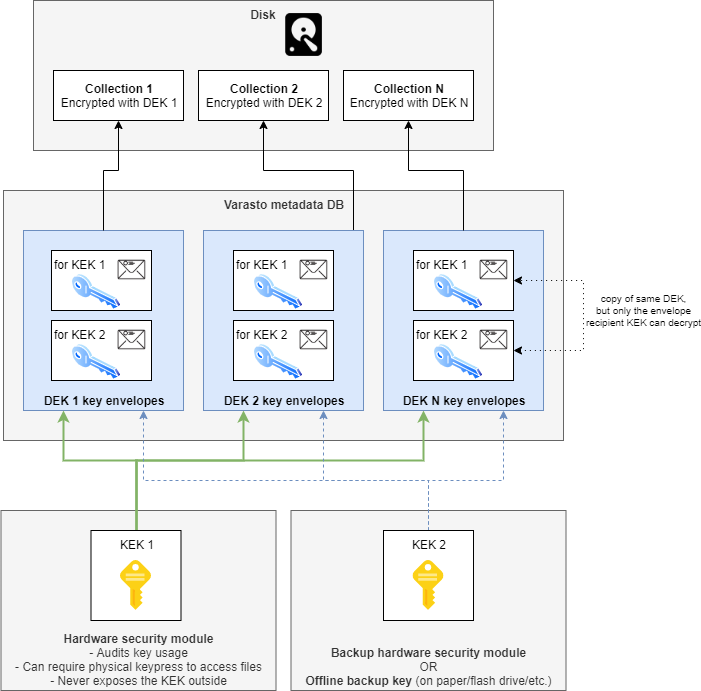
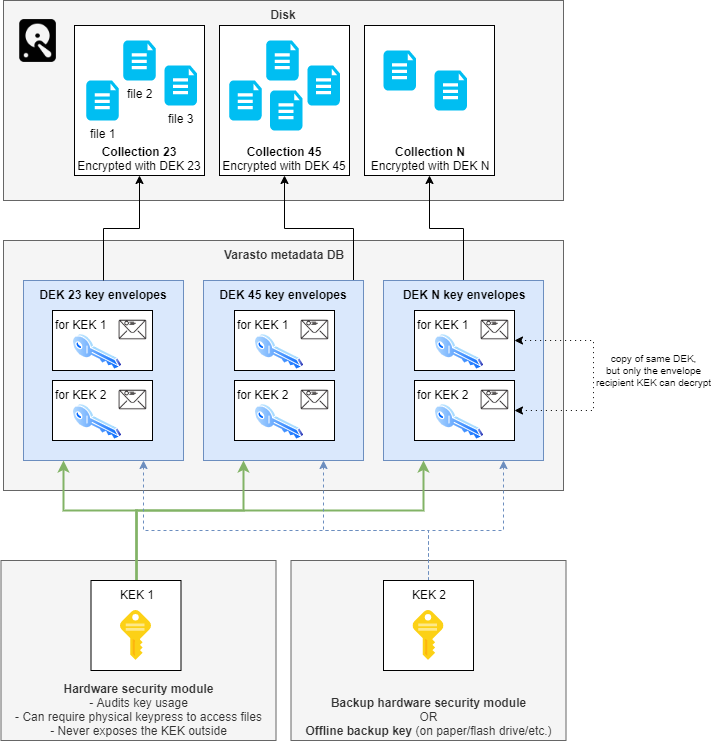
docs: encryption: improve docs

diff --git a/docs/security_encryption/README.md b/docs/security_encryption/README.md
@@ -9,8 +9,8 @@ Contents:
 - [HSM or not?](#hsm-or-not)
 - [Why do I need at least two KEKs?](#why-do-i-need-at-least-two-keks)
 - [Algorithms used](#algorithms-used)
-- [Limitations of Varasto's crypto design](#limitations-of-varasto-s-crypto-design)
-- [Varasto cryptosystem's description in minimal code](#varasto-cryptosystem-s-description-in-minimal-code)
+- [Limitations of Varasto's crypto design](#limitations-of-varastos-crypto-design)
+- [Varasto cryptosystem's description in minimal code](#varasto-cryptosystems-description-in-minimal-code)
 - [What if my HSM gets stolen?](#what-if-my-hsm-gets-stolen)
 
 
@@ -29,6 +29,8 @@ If you are interested in improving the security beyond baseline, read on!
 Glossary
 --------
 
+NOTE: Seeing the below diagram will make following this easier!
+
 | Term                           | Meaning |
 |--------------------------------|---------|
 | DEK (Data Encryption Key)      | Encryption key used to encrypt actual files |
@@ -44,20 +46,20 @@ on this, but we're not Google specific)
 Overview
 --------
 
+![Diagram](key-encryption-keys.png)
+
 Each collection in Varasto has a different DEK, so compromise of one collection does not
 compromise other collections. The DEKs are stored in Varasto's database.
 
-If an attacker steals Varasto's database or gets access to it, she could steal all DEKs to
-be able to decrypt **all your data**.
+If an attacker steals your encrypted files *and* Varasto's database or gets access to it,
+she could steal all DEKs to be able to decrypt **all your data**.
 
 To protect from this, we encrypt the DEKs with a KEK within a "key envelope" - one envelope
-for each of your KEK. This way the DEK can be decrypted by having any *one* of your KEKs.
+for each of your KEK. This way a given DEK can be decrypted by having any *one* of your KEKs.
 
 This way even if we have millions of collections with millions of DEKs, we can have all of
 them protected with about two "root" KEKs that can be stored in a high-security place with
 auditing and/or physical key press to grant access to just one collection at a time.
-
-![Diagram](key-encryption-keys.png)
 
 
 HSM or not?
@@ -69,17 +71,28 @@ can fiddle with your files without being asked to do anything.
 For more advanced users the private portion of KEKs can be stored in HSMs so that any data
 in Varasto can only be read by asking the HSM to decrypt the DEK.
 
-You can also mix-and-match by having for example a setup like this:
+You can also mix-and-match security levels by having in-Varasto KEK for your less
+private data and HSM-backed KEKs for your more private data.
 
-| KEK security | HSM | Auditing | Touch-to-decrypt | Convenience |
-|--------------|-----|----------|------------------|-------------|
-| Low          | ☐  | ☐       | ☐               | maximum     |
-| Medium       | ☑ | ☑      | ☐               | medium      |
-| High         | ☑ | ☑      | ☑              | minimum     |
+| Data security | KEK in HSM | Bulletproof auditing | Touch-to-decrypt | Convenience |
+|---------------|------------|----------------------|------------------|-------------|
+| Low           | ☐          | ☐                   | ☐               | maximum     |
+| Medium        | ☑         | ☑                  | ☐               | medium      |
+| High          | ☑         | ☑                  | ☑              | minimum     |
+
+Bulletproof auditing = if your HSM is on a dedicated server with almost nothing but the
+HSM and the auditing running, it'd be pretty hard for an attacker to bypass the auditing.
+
+You can even have touch-to-decrypt for your employees' machines by having a
+[YubiKey](https://www.yubico.com/) or similar generate a "I approve requesting the
+remote-stored KEK to grant me access to these files" -signature which will be relayed to
+the HSM service to authorize the DEK decryption.
 
 
 Why do I need at least two KEKs?
 --------------------------------
+
+### Why
 
 Remember, a KEK unlocks all your DEKs. If you only have one KEK and lose it:
 
@@ -87,16 +100,20 @@ Remember, a KEK unlocks all your DEKs. If you only have one KEK and lose it:
 - => you lose access to your files (since accessing the data requires the DEK)
 
 HSMs can break or be stolen, so you can lose a KEK. Therefore we recommend you to always
-have at least one backup KEK so you won't lose your files.
+have **at least** one backup KEK so you won't lose your files.
 
-You can unlock a DEK with any one of your KEKs.
+You can unlock a given DEK with any one of your KEKs.
+
+### Backup KEKs
 
 The backup KEK can be:
 
 - another HSM if you need high availability or want zero (or minimal) downtime if your primary HSM fails
 - or if you don't mind some downtime when a HSM fails, you can store your backup key offline on paper or inside a flash drive etc.
 
-You don't need to worry about backing up KEKs, because they're stored in Varasto's database
+### What about backing up DEKs?
+
+You don't need to worry about backing up DEKs, because they're stored in Varasto's database
 and that DB is covered by Varasto's DB backup mechanism.
 
 
@@ -124,9 +141,9 @@ already has the file that you have stored, they can compute the hash and see tha
 the same hash, i.e. know that you have the same file.
 
 This means Varasto is not great for you if you have data that also other people have and
-you want to have the ability to deny that you don't have the same data.
+you want to have the ability to deny those people that you have the same data as they have.
 
-Please note that this only applies if a person gets access to your Varasto database.
+Please note that this only applies if those people have access to your Varasto database.
 
 
 Varasto cryptosystem's description in minimal code
@@ -139,9 +156,9 @@ What if my HSM gets stolen?
 ---------------------------
 
 Since the HSM grants access via the KEK to all the DEKs, an attacker stealing the HSM
-(and your encrypted data) would be able to decrypt all your files. We recommend using a HSM
-that only grants access to the KEK after a PIN is entered. This way if an attacker steals
-the HSM she can't use the KEK without unlocking the HSM first with a PIN.
+(and your encrypted data) would enable decryption of all your files. We recommend using a
+HSM that only grants access to the KEK after a PIN is entered. This way if an attacker
+steals the HSM she can't use the KEK without unlocking the HSM first with a PIN.
 
 Remember to safeguard your backup KEKs as well as your primary KEK - your security is only
 as strong as your weakest link.
